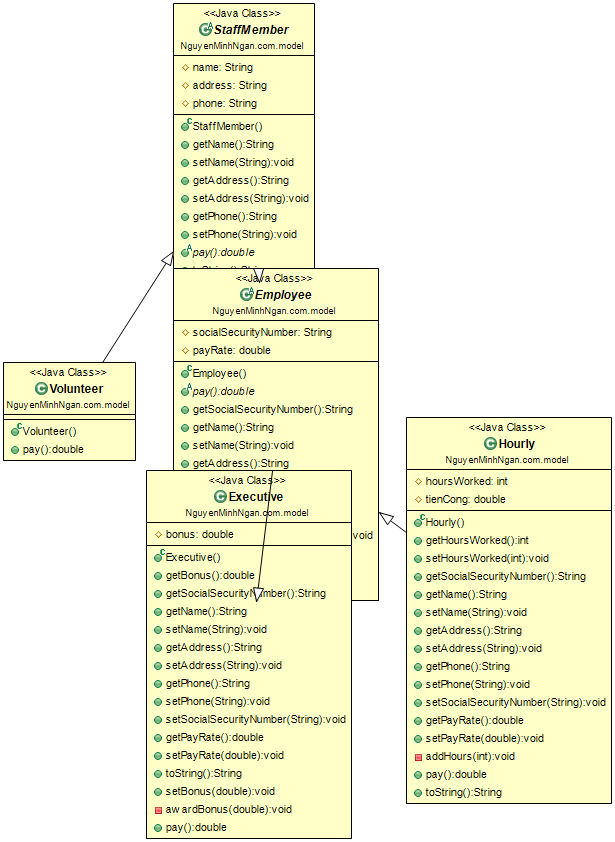
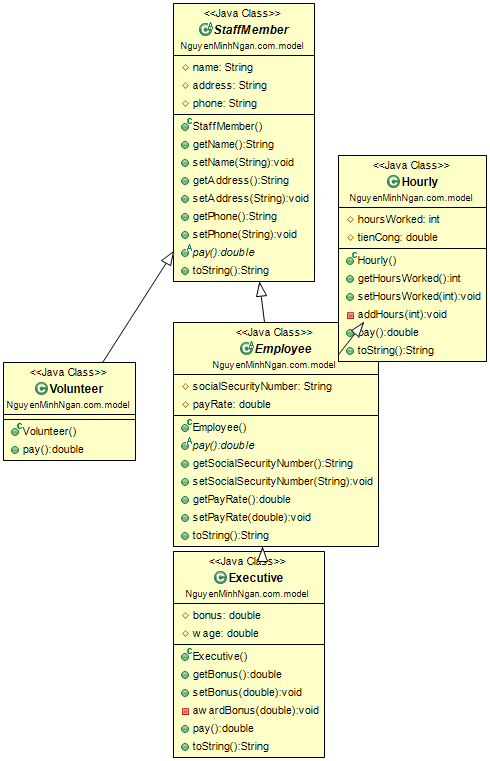
done

diff --git a/Slide76_Java/src/NguyenMinhNgan/com/model/Executive.java b/Slide76_Java/src/NguyenMinhNgan/com/model/Executive.java
@@ -2,87 +2,25 @@ package NguyenMinhNgan.com.model;
 
 public class Executive extends Employee {
 	protected double bonus;
+	protected double wage;
+	
 	public double getBonus() {
 		return bonus;
 	}
-
-	@Override
-	public String getSocialSecurityNumber() {
-		// TODO Auto-generated method stub
-		return super.getSocialSecurityNumber();
-	}
-
-	@Override
-	public String getName() {
-		// TODO Auto-generated method stub
-		return super.getName();
-	}
-
-	@Override
-	public void setName(String name) {
-		// TODO Auto-generated method stub
-		super.setName(name);
-	}
-
-	@Override
-	public String getAddress() {
-		// TODO Auto-generated method stub
-		return super.getAddress();
-	}
-
-	@Override
-	public void setAddress(String address) {
-		// TODO Auto-generated method stub
-		super.setAddress(address);
-	}
-
-	@Override
-	public String getPhone() {
-		// TODO Auto-generated method stub
-		return super.getPhone();
-	}
-
-	@Override
-	public void setPhone(String phone) {
-		// TODO Auto-generated method stub
-		super.setPhone(phone);
-	}
-
-	@Override
-	public void setSocialSecurityNumber(String socialSecurityNumber) {
-		// TODO Auto-generated method stub
-		super.setSocialSecurityNumber(socialSecurityNumber);
-	}
-
-	@Override
-	public double getPayRate() {
-		// TODO Auto-generated method stub
-		return super.getPayRate();
-	}
-
-	@Override
-	public void setPayRate(double payRate) {
-		// TODO Auto-generated method stub
-		super.setPayRate(payRate);
-	}
-
-	@Override
-	public String toString() {
-		// TODO Auto-generated method stub
-		return super.toString();
-	}
-
 	public void setBonus(double bonus) {
 		this.bonus = bonus;
 	}
-
 	private void awardBonus(double exeBonus) {
-		bonus = 2000*exeBonus/100;
+		wage = 2000*exeBonus/100+2000;
 	}
-
 	public double pay() {
 		awardBonus(bonus);
-		return bonus;
+		return wage ;
+	}
+	@Override
+	public String toString() {
+		String s=super.toString();
+		return s+"\nThưởng: "+bonus;
 	}
 
 }

diff --git a/Slide76_Java/src/NguyenMinhNgan/com/model/Hourly.java b/Slide76_Java/src/NguyenMinhNgan/com/model/Hourly.java
@@ -3,84 +3,23 @@ package NguyenMinhNgan.com.model;
 public class Hourly extends Employee {
 
 	protected int hoursWorked;
+	protected double tienCong;
+	
 	public int getHoursWorked() {
 		return hoursWorked;
 	}
-
 	public void setHoursWorked(int hoursWorked) {
 		this.hoursWorked = hoursWorked;
 	}
-
-	@Override
-	public String getSocialSecurityNumber() {
-		// TODO Auto-generated method stub
-		return super.getSocialSecurityNumber();
-	}
-
-	@Override
-	public String getName() {
-		// TODO Auto-generated method stub
-		return super.getName();
-	}
-
-	@Override
-	public void setName(String name) {
-		// TODO Auto-generated method stub
-		super.setName(name);
-	}
-
-	@Override
-	public String getAddress() {
-		// TODO Auto-generated method stub
-		return super.getAddress();
-	}
-
-	@Override
-	public void setAddress(String address) {
-		// TODO Auto-generated method stub
-		super.setAddress(address);
-	}
-
-	@Override
-	public String getPhone() {
-		// TODO Auto-generated method stub
-		return super.getPhone();
-	}
-
-	@Override
-	public void setPhone(String phone) {
-		// TODO Auto-generated method stub
-		super.setPhone(phone);
-	}
-
-	@Override
-	public void setSocialSecurityNumber(String socialSecurityNumber) {
-		// TODO Auto-generated method stub
-		super.setSocialSecurityNumber(socialSecurityNumber);
-	}
-
-	@Override
-	public double getPayRate() {
-		// TODO Auto-generated method stub
-		return super.getPayRate();
-	}
-
-	@Override
-	public void setPayRate(double payRate) {
-		// TODO Auto-generated method stub
-		super.setPayRate(payRate);
-	}
-
-	protected double tienCong;
 	private void addHours(int moreHours) {
 		tienCong= moreHours*10;
 	}
-
+	@Override
 	public double pay() {
 		addHours(hoursWorked);
 		return tienCong;
 	}
-
+	@Override
 	public String toString() {
 		String s= super.toString();
 		return s+"\nGiờ công: "+hoursWorked;

diff --git a/Slide76_Java/src/NguyenMinhNgan/com/model/Employee.java b/Slide76_Java/src/NguyenMinhNgan/com/model/Employee.java
@@ -1,51 +1,27 @@
 package NguyenMinhNgan.com.model;
 
 public abstract class Employee extends StaffMember {
+
+	@Override
 	public abstract double pay();
 	protected String socialSecurityNumber;
 	protected double payRate;
 	public String getSocialSecurityNumber() {
 		return socialSecurityNumber;
 	}
-	@Override
-	public String getName() {
-		// TODO Auto-generated method stub
-		return super.getName();
-	}
-	@Override
-	public void setName(String name) {
-		// TODO Auto-generated method stub
-		super.setName(name);
-	}
-	@Override
-	public String getAddress() {
-		// TODO Auto-generated method stub
-		return super.getAddress();
-	}
-	@Override
-	public void setAddress(String address) {
-		// TODO Auto-generated method stub
-		super.setAddress(address);
-	}
-	@Override
-	public String getPhone() {
-		// TODO Auto-generated method stub
-		return super.getPhone();
-	}
-	@Override
-	public void setPhone(String phone) {
-		// TODO Auto-generated method stub
-		super.setPhone(phone);
-	}
+
 	public void setSocialSecurityNumber(String socialSecurityNumber) {
 		this.socialSecurityNumber = socialSecurityNumber;
 	}
+
 	public double getPayRate() {
 		return payRate;
 	}
+
 	public void setPayRate(double payRate) {
 		this.payRate = payRate;
 	}
+
 	@Override
 	public String toString() {
 		String s= super.toString();

diff --git a/Slide76_Java/src/NguyenMinhNgan/com/test/Staff.java b/Slide76_Java/src/NguyenMinhNgan/com/test/Staff.java
@@ -10,19 +10,32 @@ import NguyenMinhNgan.com.model.Volunteer;
 public class Staff {
 	public static void main(String[] args) {
 		ArrayList<StaffMember> staffList = new ArrayList<StaffMember>();
-		StaffMember per1 = new Volunteer();
+		Volunteer per1 = new Volunteer();
 		per1.setAddress("VietNam");
 		per1.setName("Alex");
 		per1.setPhone("092123232");
 		staffList.add(per1);
-		StaffMember per2 = new Executive();
+		
+		Executive per2 = new Executive();
 		per2.setAddress("US");
 		per2.setName("Bob");
 		per2.setPhone("098938423");
-		StaffMember per3 = new Hourly();
+		per2.setBonus(10);
+		per2.setSocialSecurityNumber("MAKD2");
+		staffList.add(per2);
+		
+		Hourly per3 = new Hourly();
 		per3.setAddress("UK");
 		per3.setName("Dick");
 		per3.setPhone("098329332");
+		per3.setHoursWorked(12);
+		per3.setPayRate(11);
+		per3.setSocialSecurityNumber("QE1DDE2D");
+		staffList.add(per3);
+		
+		for (StaffMember nv : staffList) {
+			System.out.println(nv+"\n");
+		}
 	}
 
 }
